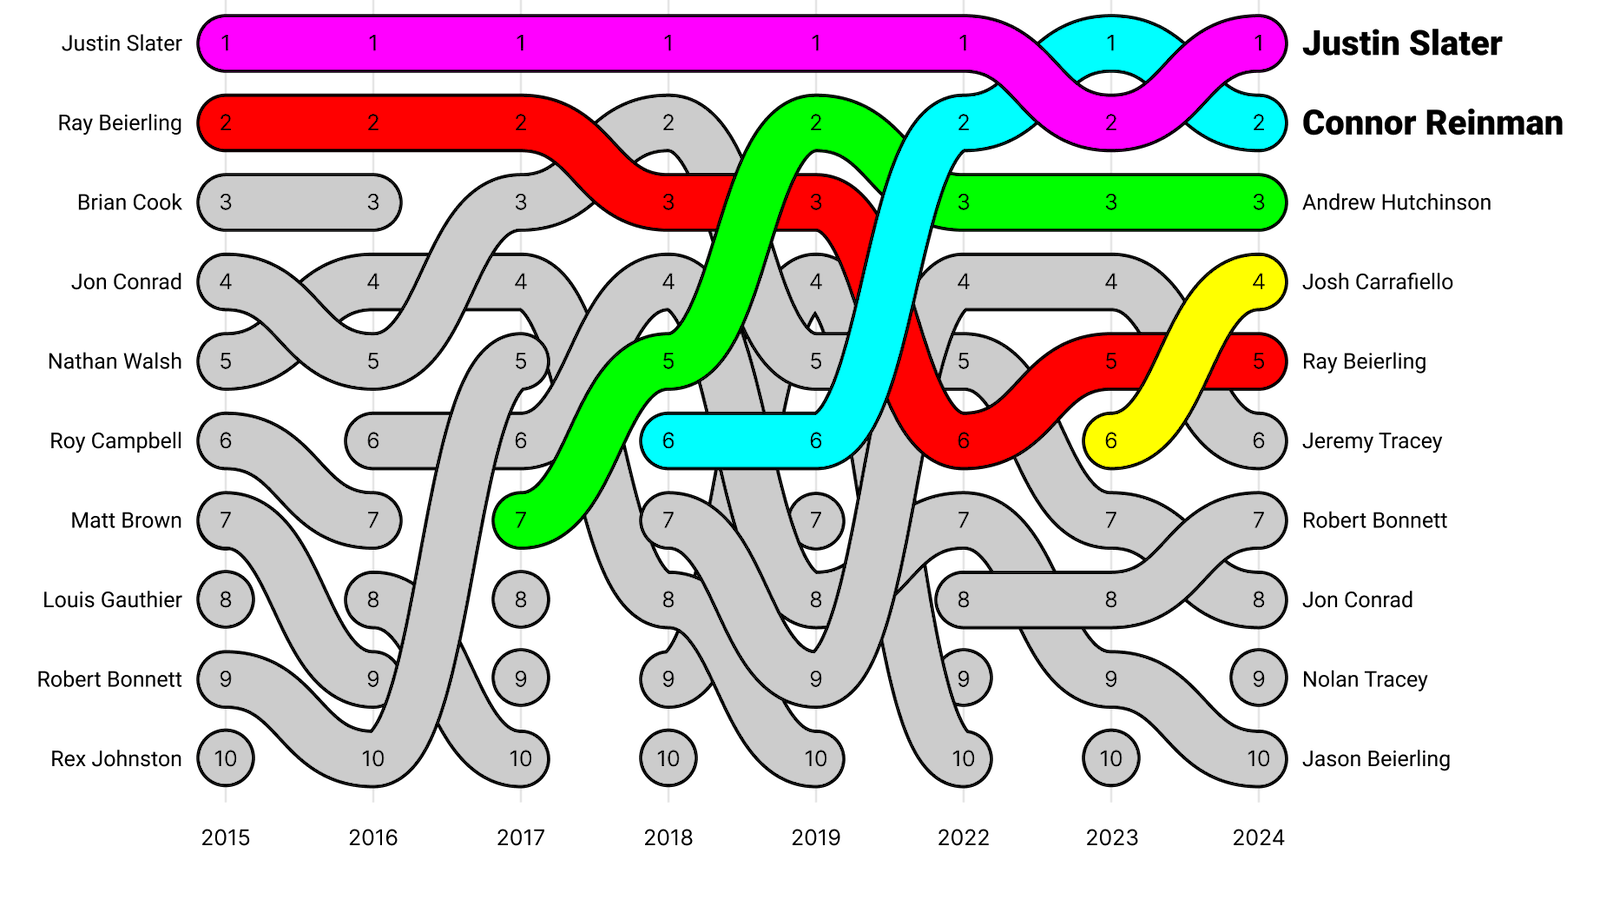
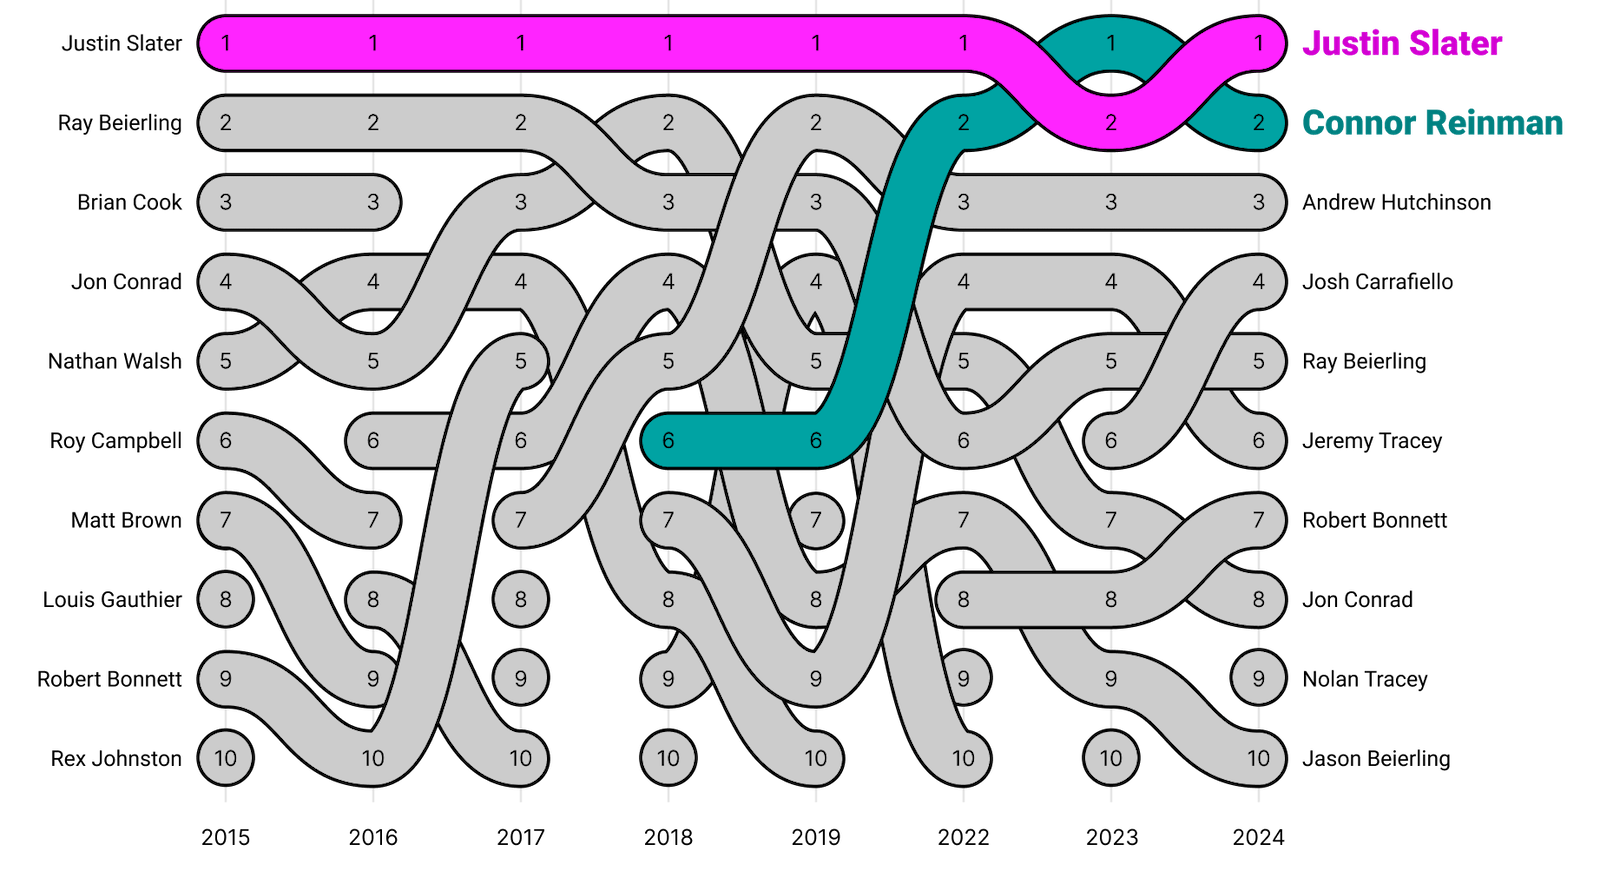
color update

diff --git a/src/styles/variables.css b/src/styles/variables.css
@@ -1,6 +1,6 @@
 /**
  * Do not edit directly
- * Generated on Fri, 20 Sep 2024 15:54:51 GMT
+ * Generated on Mon, 23 Sep 2024 13:41:14 GMT
  */
 
 :root {
@@ -24,10 +24,13 @@
   --color-gray-800: #373737;
   --color-gray-900: #262626;
   --color-gray-1000: #191919;
-  --color-pink-aa: #ff00ff;
+  --color-pink-aa: #ff24ff;
   --color-pink-aaa: #d100d1;
   --color-teal-aa: #00a3a3;
   --color-teal-aaa: #008080;
+  --color-red-aa: #fe5f55;
+  --color-red-aaa: #e91101;
+  --color-purple-aaa: #564592;
   --12px: 0.75rem;
   --14px: 0.875rem;
   --16px: 1rem;
